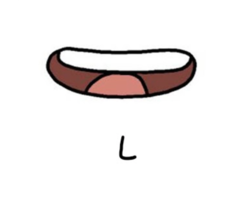
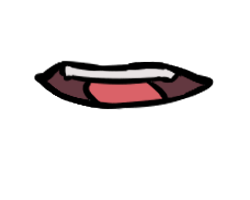
Updated visimes, added mic input level bar

Changed region(s): [[0.14, 0.21, 0.868, 0.57], [0.476, 0.66, 0.56, 0.81]]

diff --git a/src/main.py b/src/main.py
@@ -1,4 +1,5 @@
 import json
+import math
 import queue
 import shutil
 import sys
@@ -26,7 +27,9 @@ from PySide6.QtWidgets import (
     QLabel,
     QMainWindow,
     QMessageBox,
+    QProgressBar,
     QPushButton,
+    QSlider,
     QVBoxLayout,
     QWidget,
 )
@@ -41,15 +44,26 @@ IMAGE_EXTENSIONS = (".png", ".jpg", ".jpeg", ".webp", ".bmp")
 
 class InferenceWorker(QThread):
     prediction_ready = Signal(str, float, object)
+    input_level_changed = Signal(int)
     error_occurred = Signal(str)
 
-    def __init__(self, device_index: int | None) -> None:
+    def __init__(
+        self,
+        device_index: int | None,
+        noise_gate_dbfs: int,
+    ) -> None:
         super().__init__()
         self.device_index = device_index
+        self.noise_gate_dbfs = noise_gate_dbfs
+        self._noise_gate_lock = threading.Lock()
         self._stop_event = threading.Event()
 
     def stop(self) -> None:
         self._stop_event.set()
+
+    def set_noise_gate_dbfs(self, threshold: int) -> None:
+        with self._noise_gate_lock:
+            self.noise_gate_dbfs = threshold
 
     def run(self) -> None:
         try:
@@ -67,6 +81,15 @@ class InferenceWorker(QThread):
 
             def audio_callback(indata, *_) -> None:
                 samples = indata[:, 0].copy()
+                rms = float((samples * samples).mean() ** 0.5)
+                level_dbfs = 20 * math.log10(max(rms, 1e-6))
+                self.input_level_changed.emit(
+                    max(0, min(100, round((level_dbfs + 60) * 100 / 60)))
+                )
+                with self._noise_gate_lock:
+                    noise_gate_dbfs = self.noise_gate_dbfs
+                if level_dbfs < noise_gate_dbfs:
+                    samples.fill(0)
                 try:
                     audio_queue.put_nowait(samples)
                 except queue.Full:
@@ -123,13 +146,15 @@ class ObsPreviewWindow(QLabel):
         self.setWindowTitle("loquela OBS Preview")
         self.setWindowFlags(
             Qt.Window
+            | Qt.FramelessWindowHint
             | Qt.WindowStaysOnTopHint
             | Qt.WindowCloseButtonHint
             | Qt.WindowMinMaxButtonsHint
         )
         self.setMinimumSize(320, 240)
         self.setAlignment(Qt.AlignCenter)
-        self.setStyleSheet("background-color: #101010; color: #bdbdbd;")
+        self.setAttribute(Qt.WA_TranslucentBackground)
+        self.setStyleSheet("background-color: transparent; color: #181818;")
         self.setText("Waiting for viseme")
         self._source_pixmap = QPixmap()
 
@@ -220,7 +245,7 @@ class MainWindow(QMainWindow):
         self.viseme_grid.setContentsMargins(0, 0, 0, 0)
         self.viseme_grid.setHorizontalSpacing(10)
         self.viseme_grid.setVerticalSpacing(10)
-        for column in range(3):
+        for column in range(4):
             self.viseme_grid.setColumnStretch(column, 1)
         viseme_layout.addLayout(self.viseme_grid)
 
@@ -234,6 +259,7 @@ class MainWindow(QMainWindow):
             image_label = QLabel()
             image_label.setAlignment(Qt.AlignCenter)
             image_label.setFixedSize(120, 64)
+            image_label.setStyleSheet("background-color: #ffffff;")
             card_layout.addWidget(image_label, alignment=Qt.AlignHCenter)
 
             name_label = QLabel(viseme)
@@ -242,6 +268,7 @@ class MainWindow(QMainWindow):
             card_layout.addWidget(name_label)
 
             edit_button = QPushButton("Choose image…")
+            edit_button.setObjectName("visemeEdit")
             edit_button.setEnabled(False)
             edit_button.clicked.connect(
                 lambda *_, name=viseme: self._import_viseme_image(
@@ -253,7 +280,7 @@ class MainWindow(QMainWindow):
             self.viseme_cards[viseme] = card
             self.viseme_image_labels[viseme] = image_label
             self.viseme_edit_buttons[viseme] = edit_button
-            self.viseme_grid.addWidget(card, index // 3, index % 3)
+            self.viseme_grid.addWidget(card, index // 4, index % 4)
 
         workspace_row.addWidget(viseme_panel)
 
@@ -269,8 +296,8 @@ class MainWindow(QMainWindow):
         self.preview_label.setAlignment(Qt.AlignCenter)
         self.preview_label.setMinimumSize(440, 200)
         self.preview_label.setStyleSheet(
-            "background-color: #101010; border: 1px solid #454545; "
-            "border-radius: 12px; color: #bdbdbd;"
+            "background-color: #ffffff; border: 1px solid #454545; "
+            "border-radius: 12px; color: #181818;"
         )
         preview_layout.addWidget(self.preview_label, 1)
         workspace_row.addWidget(preview_panel, 1)
@@ -289,6 +316,42 @@ class MainWindow(QMainWindow):
         self.refresh_devices_button.clicked.connect(self._refresh_devices)
         audio_row.addWidget(self.refresh_devices_button)
         root_layout.addLayout(audio_row)
+
+        input_row = QHBoxLayout()
+        input_row.addWidget(QLabel("Mic level"))
+        self.input_level_bar = QProgressBar()
+        self.input_level_bar.setObjectName("inputLevel")
+        self.input_level_bar.setRange(0, 100)
+        self.input_level_bar.setValue(0)
+        self.input_level_bar.setTextVisible(False)
+        self.input_level_bar.setFixedHeight(18)
+        self.input_level_bar.setAccessibleName("Microphone input level")
+        meter_control = QWidget()
+        meter_control.setMinimumHeight(28)
+        meter_layout = QGridLayout(meter_control)
+        meter_layout.setContentsMargins(0, 0, 0, 0)
+        meter_layout.setSpacing(0)
+        meter_layout.addWidget(self.input_level_bar, 0, 0)
+        input_row.addWidget(meter_control, 1)
+        self.noise_gate_slider = QSlider(Qt.Horizontal)
+        self.noise_gate_slider.setObjectName("noiseGate")
+        self.noise_gate_slider.setRange(-60, 0)
+        self.noise_gate_slider.setValue(-45)
+        self.noise_gate_slider.setAccessibleName("Noise gate threshold")
+        self.noise_gate_slider.setToolTip(
+            "Audio quieter than this threshold is muted."
+        )
+        self.noise_gate_slider.valueChanged.connect(
+            self._noise_gate_changed
+        )
+        meter_layout.addWidget(self.noise_gate_slider, 0, 0)
+        input_row.addWidget(QLabel("Noise gate"))
+        self.noise_gate_value = QLabel()
+        input_row.addWidget(self.noise_gate_value)
+        input_row.addWidget(QLabel("Quieter input is muted"))
+        root_layout.addLayout(input_row)
+
+        self._noise_gate_changed(self.noise_gate_slider.value())
 
         button_row = QHBoxLayout()
         self.start_button = QPushButton("Start listening")
@@ -341,6 +404,38 @@ class MainWindow(QMainWindow):
             QLabel#visemeName {
                 font-weight: 600;
             }
+            QProgressBar#inputLevel {
+                min-height: 16px;
+                border: 1px solid #414141;
+                border-radius: 5px;
+                background-color: #292929;
+            }
+            QProgressBar#inputLevel::chunk {
+                border-radius: 4px;
+                background-color: #43d17b;
+            }
+            QSlider#noiseGate {
+                min-height: 28px;
+                background-color: transparent;
+            }
+            QSlider#noiseGate::groove:horizontal {
+                height: 18px;
+                background-color: transparent;
+            }
+            QSlider#noiseGate::handle:horizontal {
+                width: 14px;
+                margin: 0;
+                border: 1px solid #d0d0d0;
+                border-radius: 7px;
+                background-color: #f0f0f0;
+            }
+            QSlider#noiseGate::sub-page:horizontal {
+                border-radius: 2px;
+                background-color: #f39c12;
+            }
+            QSlider#noiseGate::add-page:horizontal {
+                background-color: transparent;
+            }
             QWidget#visemeCard {
                 border: 1px solid #414141;
                 border-radius: 8px;
@@ -373,6 +468,12 @@ class MainWindow(QMainWindow):
             }
             QPushButton {
                 color: #e5e5e5;
+            }
+            QPushButton#visemeEdit {
+                min-height: 20px;
+                max-height: 22px;
+                padding: 0 3px;
+                font-size: 10px;
             }
             QPushButton:hover, QComboBox:hover {
                 border-color: #777777;
@@ -470,8 +571,12 @@ class MainWindow(QMainWindow):
         if self.worker is not None and self.worker.isRunning():
             return
 
-        self.worker = InferenceWorker(self.microphone_combo.currentData())
+        self.worker = InferenceWorker(
+            self.microphone_combo.currentData(),
+            self.noise_gate_slider.value(),
+        )
         self.worker.prediction_ready.connect(self._show_prediction)
+        self.worker.input_level_changed.connect(self.input_level_bar.setValue)
         self.worker.error_occurred.connect(self._show_worker_error)
         self.worker.finished.connect(self._worker_finished)
         self.start_button.setEnabled(False)
@@ -494,10 +599,16 @@ class MainWindow(QMainWindow):
         self.stop_button.setEnabled(False)
         self.microphone_combo.setEnabled(True)
         self.refresh_devices_button.setEnabled(True)
+        self.input_level_bar.setValue(0)
         if self.status_label.text() not in ("Microphone or inference error",):
             self.status_label.setText("Ready")
         if self._close_requested:
             self.close()
+
+    def _noise_gate_changed(self, threshold: int) -> None:
+        self.noise_gate_value.setText(f"{threshold} dBFS")
+        if self.worker is not None and self.worker.isRunning():
+            self.worker.set_noise_gate_dbfs(threshold)
 
     def _show_worker_error(self, message: str) -> None:
         self.status_label.setText("Microphone or inference error")
